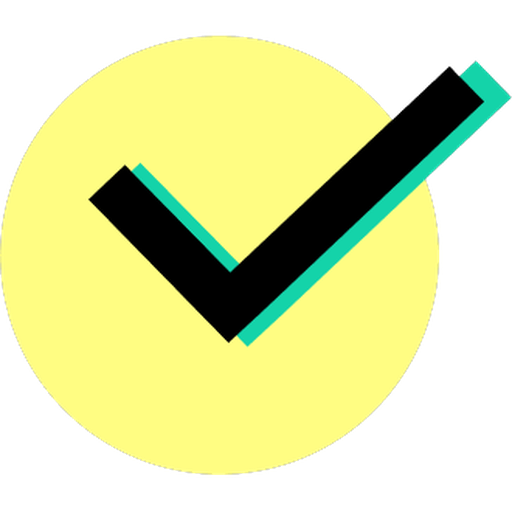
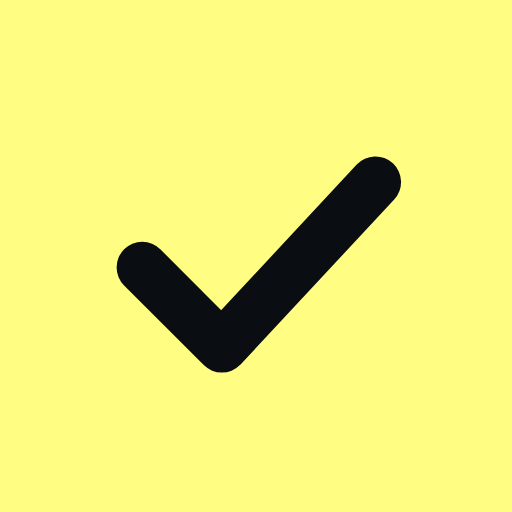
Nouvelle icône (coche sombre sur fond jaune), opaque pour iPhone
L'ancienne icône 192 px avait un fond transparent que l'iPhone remplit en
noir. Ajoute apple-touch-icon 180 px sans transparence, régénère les icônes
192/512/maskable et une favicon ; cache du service worker renouvelé.

diff --git a/index.html b/index.html
@@ -11,7 +11,8 @@
   if(window.TODO_LITE){ document.getElementById('app-manifest').href='manifest-lite.json'; document.documentElement.classList.add('lite'); }
 </script>
 <meta name="theme-color" content="#0A0D12">
-<link rel="apple-touch-icon" href="icons/icon-192.png">
+<link rel="apple-touch-icon" sizes="180x180" href="icons/apple-touch-icon.png">
+<link rel="icon" type="image/png" sizes="192x192" href="icons/icon-192.png">
 <meta name="apple-mobile-web-app-capable" content="yes">
 <meta name="mobile-web-app-capable" content="yes">
 <meta name="apple-mobile-web-app-status-bar-style" content="black-translucent">

diff --git a/widget.html b/widget.html
@@ -6,7 +6,7 @@
 <title>Todo</title>
 <link rel="manifest" href="manifest.json">
 <meta name="theme-color" content="#0A0D12">
-<link rel="apple-touch-icon" href="icons/icon-192.png">
+<link rel="apple-touch-icon" sizes="180x180" href="icons/apple-touch-icon.png">
 <meta name="apple-mobile-web-app-capable" content="yes">
 <meta name="apple-mobile-web-app-status-bar-style" content="black-translucent">
 <meta name="apple-mobile-web-app-title" content="Todo">

diff --git a/mobile.html b/mobile.html
@@ -5,6 +5,7 @@
 <meta name="viewport" content="width=device-width, initial-scale=1.0">
 <title>Todo mobile</title>
 <meta name="theme-color" content="#0A0D12">
+<link rel="apple-touch-icon" sizes="180x180" href="icons/apple-touch-icon.png">
 <script>location.replace('index.html?lite'+location.hash);</script>
 </head>
 <body style="background:#0A0D12;color:#AEB6C2;font-family:system-ui,sans-serif;padding:24px;">

diff --git a/sw.js b/sw.js
@@ -1,4 +1,4 @@
-const CACHE = 'todo-pwa-v8';
+const CACHE = 'todo-pwa-v9';
 const ASSETS = [
   './',
   './index.html',
@@ -8,6 +8,7 @@ const ASSETS = [
   './widget.html',
   './manifest.json',
   './share-target.html',
+  './icons/apple-touch-icon.png',
   './icons/icon-192.png',
   './icons/icon-512.png',
   './icons/icon-maskable-512.png'
